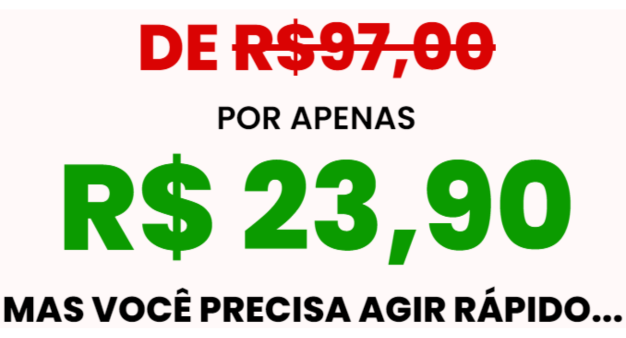
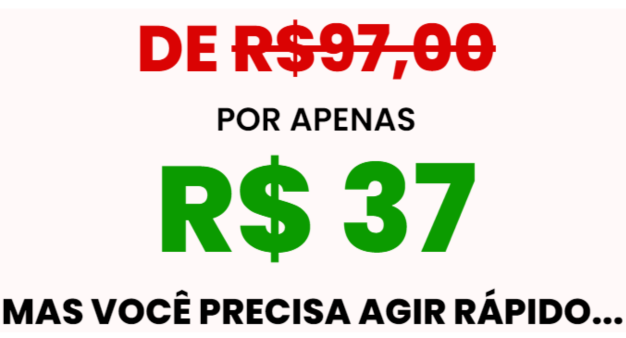
Add files via upload

diff --git a/index.html b/index.html
@@ -489,6 +489,14 @@ var pysOptions = {"staticEvents":{"facebook":{"init_event":[{"delay":0,"type":"s
                                         <li class="elementor-icon-list-item"> 
                                             <span class="elementor-icon-list-icon"> <i aria-hidden="true" class="far fa-check-circle"></i> </span> 
                                             <span class="elementor-icon-list-text">Temperos Caseiros - Guia Completo</span> 
+                                        </li>
+                                        <li class="elementor-icon-list-item"> 
+                                            <span class="elementor-icon-list-icon"> <i aria-hidden="true" class="far fa-check-circle"></i> </span> 
+                                            <span class="elementor-icon-list-text">Molhos Caseiros - Guia Completo</span> 
+                                        </li>
+                                        <li class="elementor-icon-list-item">
+                                            <span class="elementor-icon-list-icon"> <i aria-hidden="true" class="far fa-check-circle"></i> </span> 
+                                            <span class="elementor-icon-list-text">Horta de Temperos - Bônus Especial</span>
                                         </li>                                         
                                     </ul>                                     
                                 </div>                                 
@@ -513,7 +521,7 @@ var pysOptions = {"staticEvents":{"facebook":{"init_event":[{"delay":0,"type":"s
                                 <div class="elementor-widget-container"> 
                                     <p><strong>A proposta é simples e clara…</strong></p>
                                     <p>O guia mais eficaz e completo que você já viu. E por um valor especial que cabe no seu bolso.</p>
-                                    <p><strong>HOJE VOCÊ ESTÁ TENDO A CHANCE DE LEVAR TUDO ISSO POR APENAS R$ 23,90</strong></p>
+                                    <p><strong>HOJE VOCÊ ESTÁ TENDO A CHANCE DE LEVAR TUDO ISSO POR APENAS R$ 37</strong></p>
                                     <p>Sem pegadinhas, pagamento único e acesso vitalício.</p> 
                                 </div>                                 
                             </div>                             
@@ -536,7 +544,7 @@ var pysOptions = {"staticEvents":{"facebook":{"init_event":[{"delay":0,"type":"s
                             <div class="elementor-element elementor-element-45239151 elementor-widget elementor-widget-heading" data-id="45239151" data-element_type="widget" data-widget_type="heading.default"> 
                                 <div class="elementor-widget-container"> 
                                     <h2 class="elementor-heading-title elementor-size-default">Garanta tudo isso
-por apenas R$ 23,90 enquanto é tempo.</h2> 
+por apenas R$ 37 enquanto é tempo.</h2> 
                                 </div>                                 
                             </div>                             
                             <div class="elementor-element elementor-element-599b7072 elementor-widget elementor-widget-image" data-id="599b7072" data-element_type="widget" data-widget_type="image.default"> 
@@ -550,6 +558,14 @@ por apenas R$ 23,90 enquanto é tempo.</h2>
                                         <li class="elementor-icon-list-item"> 
                                             <span class="elementor-icon-list-icon"> <i aria-hidden="true" class="far fa-check-circle"></i> </span> 
                                             <span class="elementor-icon-list-text">Temperos Caseiros - Guia Completo</span> 
+                                        </li>
+                                        <li class="elementor-icon-list-item"> 
+                                            <span class="elementor-icon-list-icon"> <i aria-hidden="true" class="far fa-check-circle"></i> </span> 
+                                            <span class="elementor-icon-list-text">Molhos Caseiros - Guia Completo</span> 
+                                        </li>
+                                        <li class="elementor-icon-list-item"> 
+                                            <span class="elementor-icon-list-icon"> <i aria-hidden="true" class="far fa-check-circle"></i> </span> 
+                                            <span class="elementor-icon-list-text">Horta de Temperos - Bônus Especial</span> 
                                         </li>                                         
                                     </ul>                                     
                                 </div>                                 
@@ -596,12 +612,12 @@ por apenas R$ 23,90 enquanto é tempo.</h2>
                             </div>                             
                             <div class="elementor-element elementor-element-396b3314 elementor-widget elementor-widget-heading" data-id="396b3314" data-element_type="widget" data-widget_type="heading.default"> 
                                 <div class="elementor-widget-container"> 
-                                    <h2 class="elementor-heading-title elementor-size-default">Por que somente R$23,90?</h2> 
+                                    <h2 class="elementor-heading-title elementor-size-default">Por que somente R$37 ?</h2> 
                                 </div>                                 
                             </div>                             
                             <div class="elementor-element elementor-element-74ab3265 elementor-widget elementor-widget-text-editor" data-id="74ab3265" data-element_type="widget" data-widget_type="text-editor.default"> 
                                 <div class="elementor-widget-container"> 
-                                    <p>Se você prestar atenção, o valor de R$ 23,90 não parece ser um valor aleatório para cobrar em um produto (e de fato não é).</p>
+                                    <p>Se você prestar atenção, o valor de R$ 37 não parece ser um valor aleatório para cobrar em um produto (e de fato não é).</p>
                                     <p><strong>Razão número 01:</strong> O valor não se torna um obstáculo para ninguém.</p>
                                     <p><strong>Razão número 02:</strong> Proteção contra curiosos.</p>
                                     <p>Mesmo que o investimento seja baixo, o simples fato de cobrar já afasta curiosos em busca de &ldquo;soluções gratuitas&rdquo; na internet.</p>
